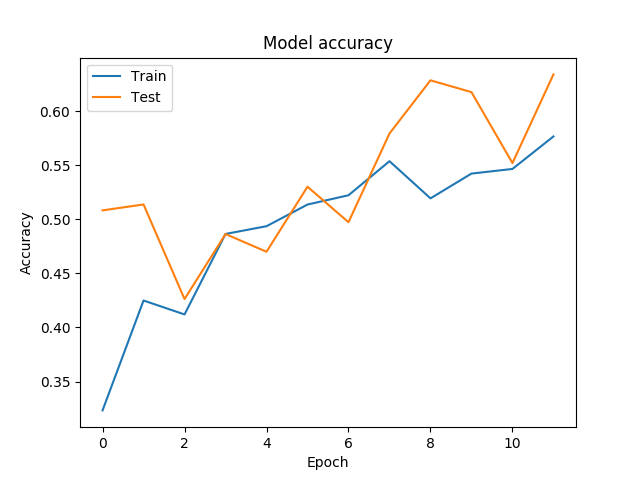
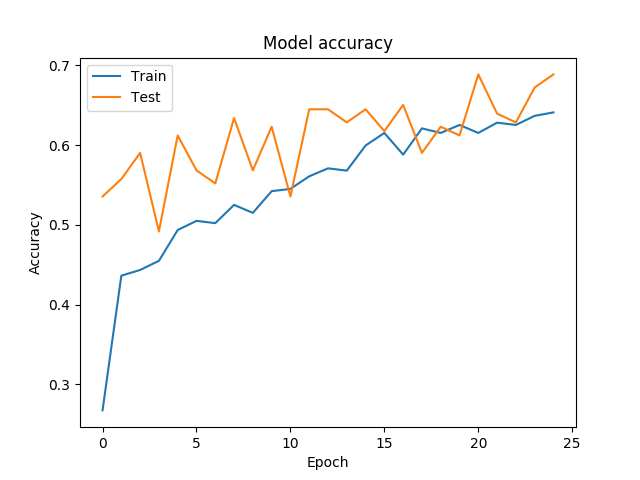
better models

diff --git a/src/transfer_CNN.py b/src/transfer_CNN.py
@@ -16,6 +16,7 @@ from keras.preprocessing.image import ImageDataGenerator
 from keras.models import Sequential, load_model
 from keras import callbacks
 from print_pretty_confusion_matrix import plot_confusion_matrix_from_data
+from sklearn.metrics import classification_report
 import matplotlib.pyplot as plt
 np.random.seed(1337)  # for reproducibility
 mpl.rcParams.update({
@@ -99,7 +100,7 @@ class TranseferModel():
         self.holdout_generator_images = test_datagen.flow_from_directory(
             holdout_data_dir,
             target_size=self.target_size,
-            batch_size=219,
+            batch_size=226,
             class_mode='categorical',
             shuffle=False)
         return self.train_generator, self.validation_generator, self.holdout_generator
@@ -110,7 +111,7 @@ class TranseferModel():
         self.class_weights = {class_id : max_val/num_images for class_id, num_images in counter.items()}
         return self.class_weights
 
-    def fit(self,freeze_indices,optimizers,warmup_epochs=10):
+    def fit(self,freeze_indices,optimizers,warmup_epochs=5):
         # callbacks
         # filepath="models/transfer_CNN-{epoch:02d}-{val_acc:.2f}.h5"
         filepath='models/transfer_CNN.h5'
@@ -124,7 +125,7 @@ class TranseferModel():
         hist = callbacks.History()
         es = callbacks.EarlyStopping(monitor='val_loss',
                                             min_delta=0,
-                                            patience=2,
+                                            patience=3,
                                             verbose=1,
                                             mode='auto')
         if not os.path.exists('tensorboard_logs/transfer_CNN_tensorboard_with_weights'):
@@ -174,9 +175,9 @@ class TranseferModel():
 
     def best_training_model(self):
         model = load_model('models/transfer_CNN.h5')
-        predictions = model.predict_generator(self.holdout_generator,
+        pred = model.predict_generator(self.holdout_generator,
                                                 steps=len(self.holdout_generator))
-        predictions = np.argmax(predictions, axis=-1)
+        predictions = np.argmax(pred, axis=-1)
         label_map = (self.holdout_generator.class_indices)
         label_map = dict((v,k) for k,v in label_map.items()) #flip k,v
         names = np.array([x.split('/') for x in self.holdout_generator.filenames])
@@ -186,14 +187,14 @@ class TranseferModel():
         metrics = model.evaluate_generator(self.holdout_generator,
                                             steps=len(self.holdout_generator),
                                             verbose=1)
-        return metrics, data
+        return metrics, data, pred
 
     def print_matrix(self,y_true,y_pred):
         columns = self.holdout_generator.class_indices.keys()
         plot_confusion_matrix_from_data(y_true,y_pred,columns=columns)
         return
 
-    def return_failed_images(self,dir,data):
+    def return_failed_images(self,dir,data,pred):
         failed = data[data[:,0]!=data[:,2]]
         fig, axes = plt.subplots(len(failed),2)
 
@@ -208,7 +209,7 @@ class TranseferModel():
             axes[idx][1].imshow((test_X[indices[idx]]/2)+0.5)
             # set titles
             axes[idx][0].set_title(f'Actual: {row[0]}')
-            axes[idx][1].set_title(f'Predicted: {row[2]}')
+            axes[idx][1].set_title(f'Predicted: {row[2]}, {round(pred[indices[idx]].max()*100,2)}%')
             # remove ticks
             for idx2 in range(2):
                 axes[idx][idx2].get_xaxis().set_visible(False)
@@ -229,10 +230,11 @@ if __name__ == '__main__':
     transfer_CNN = TranseferModel()
     transfer_CNN.make_generators(dir)
     freeze_indices = [132, 126]
-    optimizers = [Adam(lr=0.0006), Adam(lr=0.00001)]
+    optimizers = [Adam(lr=0.0005), Adam(lr=0.00001)]
 
     transfer_CNN.fit(freeze_indices,optimizers)
-    metrics, data = transfer_CNN.best_training_model()
+    metrics, data, pred = transfer_CNN.best_training_model()
     transfer_CNN.print_matrix(data[:,0],data[:,2])
     print(metrics)
-    transfer_CNN.return_failed_images(dir,data)
+    transfer_CNN.return_failed_images(dir,data,pred)
+    print(classification_report(data[:,0],data[:,2]))

diff --git a/src/Simple_Cat_CNN.py b/src/Simple_Cat_CNN.py
@@ -15,7 +15,7 @@ np.random.seed(1337)  # for reproducibility
 
 class SimpleCNN():
 
-    def __init__(self,batch_size=8,nb_classes=4,nb_epoch=30,img_rows=300,img_cols=300,input_dim=3,
+    def __init__(self,batch_size=4,nb_classes=4,nb_epoch=30,img_rows=300,img_cols=300,input_dim=3,
                                                 nb_filters=128,pool_size=(2,2),kernel_size=(3,3),
                                                 augmentation_strength=0.2):
         self.batch_size = batch_size
@@ -162,8 +162,9 @@ if __name__ == '__main__':
     history = Banana_CNN.fit()
     open_saved_model('models/Simple_CNN.h5',holdout)
 
-    from keras.utils import plot_model
-    plot_model(Banana_CNN.model, to_file='../graphics/Simple_CNN_model.png')
+    ## plot model
+    # from keras.utils import plot_model
+    # plot_model(Banana_CNN.model, to_file='../graphics/Simple_CNN_model.png')
 
     # Plot training & validation accuracy values
     plt.plot(history.history['acc'])
